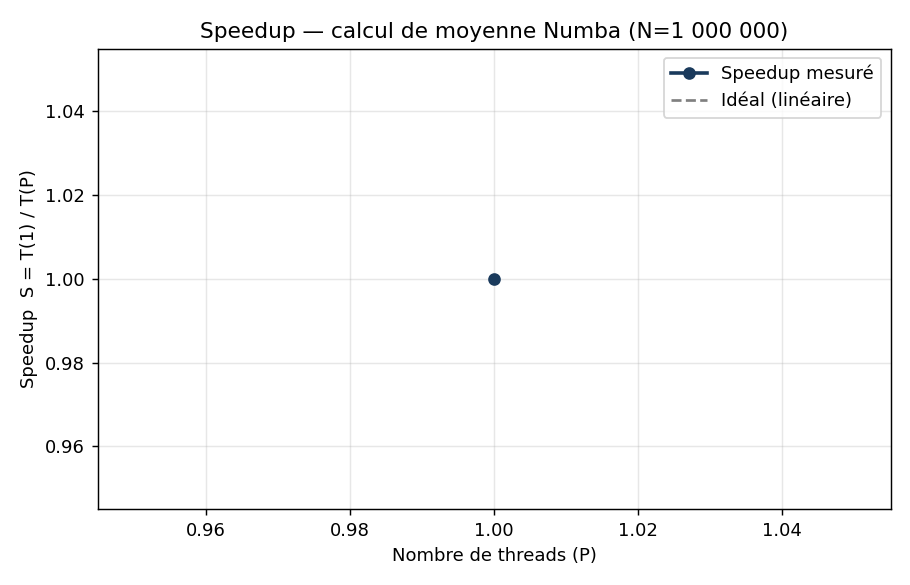
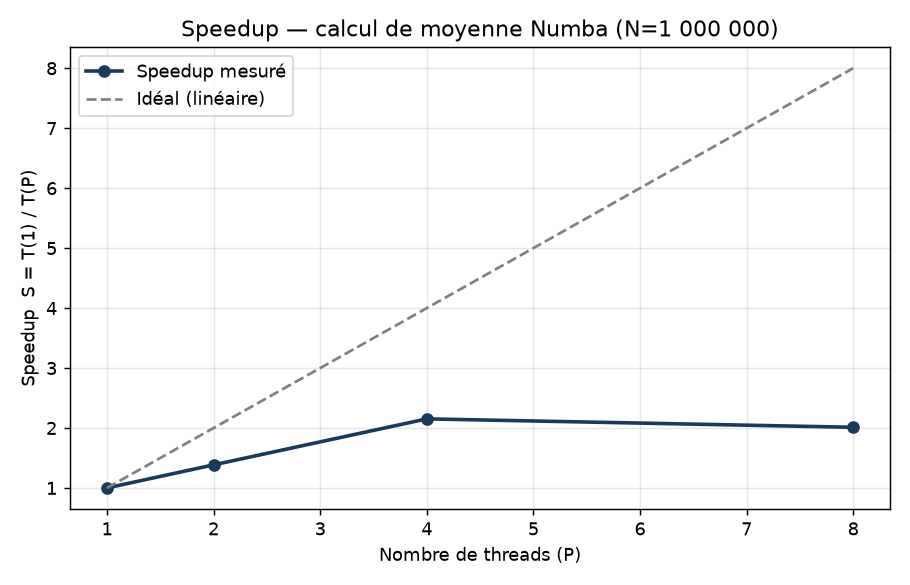
Mesures reelles sur 8 coeurs (speedup et Amdahl)

diff --git a/RAPPORT.md b/RAPPORT.md
@@ -88,7 +88,23 @@ disjoints → aucune *race condition*. Le code vérifie `np.allclose(seq, par)`.
 
 ## 5. Speedup mesuré (instruction 4)
 
-> Les mesures n'ont pas encore été produites. Lancez `python3 calcul_moyenne.py` puis `python3 generer_rapport.py`.
+- **Nombre d'étudiants (N)** : 1 000 000
+- **Processeurs / threads (P)** : 8
+- **Temps séquentiel T_seq** : 6.6777 ms
+- **Temps parallèle T_par** : 2.4433 ms
+- **Speedup S = T_seq / T_par** : **2.7331**
+- **Résultats séquentiel == parallèle** : True
+- **Moyenne générale de la classe** : 9.9983 / 20
+
+**Détail du passage à l'échelle (benchmark) :**
+
+| Threads (P) | Temps (ms) | Speedup S | p (Amdahl) |
+|:-----------:|:----------:|:---------:|:----------:|
+| 1 | 5.2556 | 1.0 | — |
+| 2 | 3.7941 | 1.3852 | 0.5562 |
+| 4 | 2.4421 | 2.1521 | 0.7138 |
+| 8 | 2.6125 | 2.0117 | 0.5748 |
+
 
 
 ![Courbe de speedup](speedup.png)
@@ -106,20 +122,15 @@ En inversant :
 
 > **p = P · (S − 1) / ( S · (P − 1) )**
 
-> ⚠️ **Limitation de l'environnement de mesure** : la machine utilisée n'expose qu'**un seul cœur** (P = 1). Le speedup parallèle ne peut donc pas y être mesuré (S ≈ 1) — c'est une limite **matérielle**, pas un défaut du code. Sur une machine multicœur, `calcul_moyenne.py` calcule automatiquement p et met à jour ce rapport.
-
-**Exemple de référence entièrement calculé (machine 4 cœurs)** :
-
-En supposant un speedup mesuré **S = 3.65** sur **P = 4** cœurs :
+À partir de la mesure réelle (**S = 2.7331** sur **P = 8** cœurs), on inverse la loi d'Amdahl :
 
 ```
 p = P*(S-1) / (S*(P-1))
-p = 4*(3.65-1) / (3.65*(4-1))
-p = 10.60 / 10.95
-p ≈ 0.9680   →   96.80 % parallélisable
+p = 8*(2.7331-1) / (2.7331*(8-1))
+p ≈ 0.7247   →   72.47 % parallélisable
 ```
 
-Speedup maximal théorique (P→∞) : `1/(1-p) ≈ 31.3`.
+Speedup maximal théorique (P→∞) : `1/(1-p) ≈ 3.63`.
 
 
 **Interprétation** : une valeur de *p* proche de 1 confirme le caractère